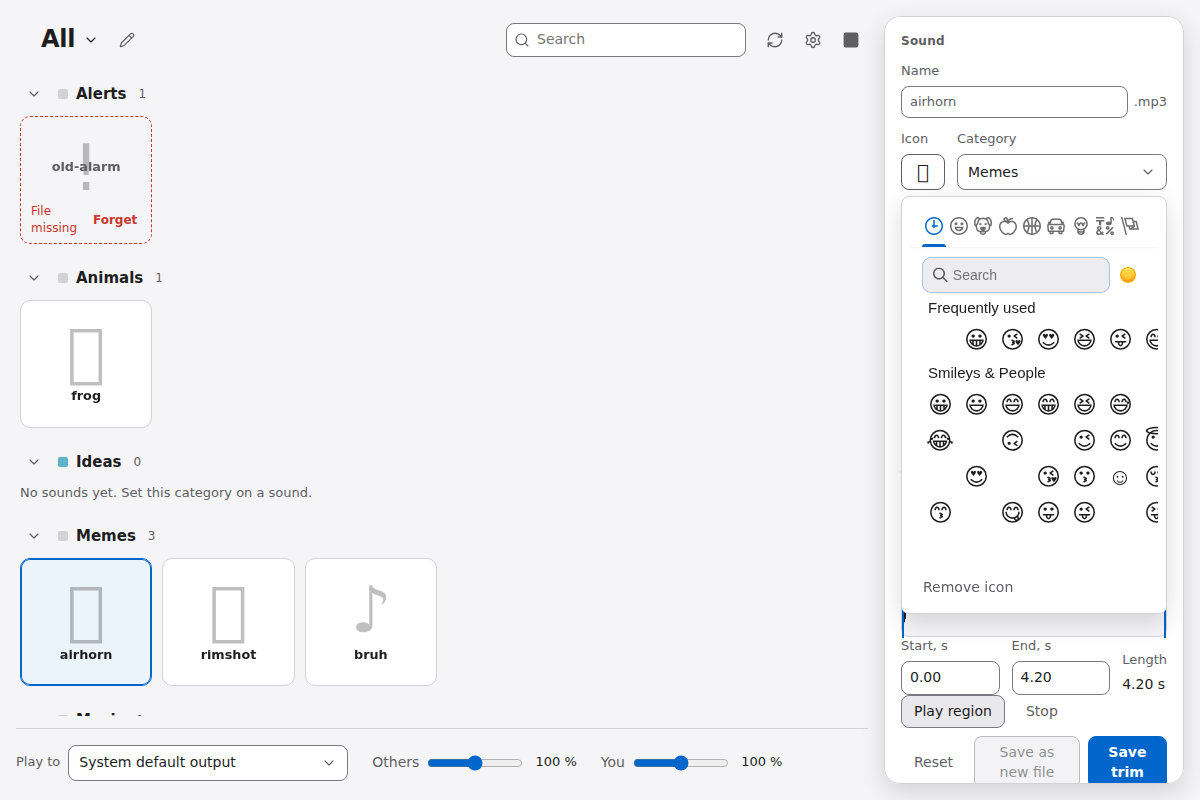
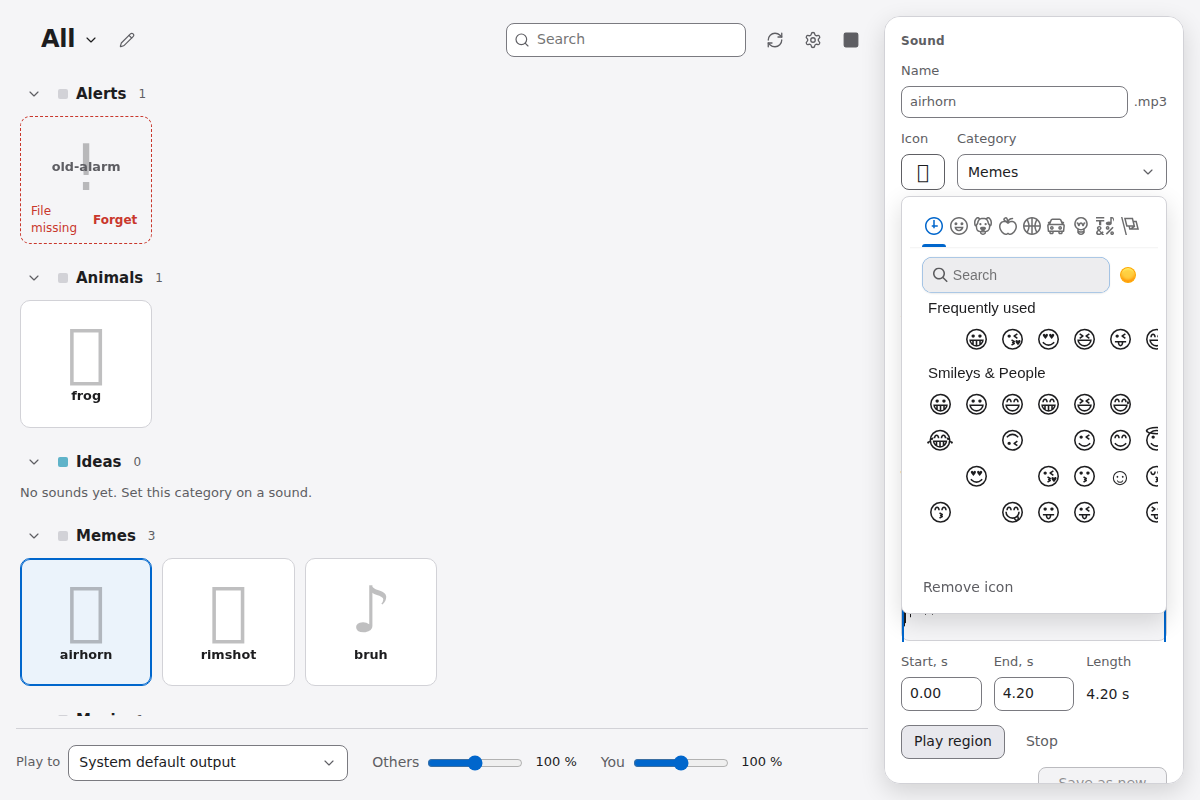
Give the trim editor clear rows
Start, End and Length sit in three equal columns with their labels
aligned. Actions are in three rows: playback, then Reset and Save as
new file, then Save trim across the full width. The old layout crowded
the buttons into one wrapping row.

Changed region(s): [[0.74, 0.7812, 0.9867, 1.0]]

diff --git a/src/components/TrimEditor.tsx b/src/components/TrimEditor.tsx
@@ -115,8 +115,8 @@ export function TrimEditor({ entry, onSaved, onExported }: Props) {
         {status && <p className="hint" role="status">{status}</p>}
         {error && <p className="error" role="alert">{error}</p>}
 
-        <div className="sheet-actions sheet-split">
-          <div className="sheet-actions">
+        <div className="trim-actions">
+          <div className="trim-row">
             <button
               type="button"
               className="btn"
@@ -134,7 +134,8 @@ export function TrimEditor({ entry, onSaved, onExported }: Props) {
               Stop
             </button>
           </div>
-          <div className="sheet-actions">
+
+          <div className="trim-row trim-row-split">
             <button
               type="button"
               className="btn btn-quiet"
@@ -159,24 +160,25 @@ export function TrimEditor({ entry, onSaved, onExported }: Props) {
             >
               Save as new file
             </button>
-            <button
-              type="button"
-              className="btn btn-primary"
-              disabled={busy || !wave}
-              onClick={() =>
-                run("", async () => {
-                  await api.setSoundMeta(entry.fileName, {
-                    ...entry.meta,
-                    trimStart,
-                    trimEnd,
-                  });
-                  onSaved();
-                })
-              }
-            >
-              Save trim
-            </button>
           </div>
+
+          <button
+            type="button"
+            className="btn btn-primary btn-block"
+            disabled={busy || !wave}
+            onClick={() =>
+              run("", async () => {
+                await api.setSoundMeta(entry.fileName, {
+                  ...entry.meta,
+                  trimStart,
+                  trimEnd,
+                });
+                onSaved();
+              })
+            }
+          >
+            Save trim
+          </button>
         </div>
     </section>
   );

diff --git a/src/styles.css b/src/styles.css
@@ -1147,8 +1147,15 @@ button.group-title:hover {
 
 /* ---------- Trim editor (sidebar) ---------- */
 
+/* Trim: waveform, the three times, then the actions in three rows. */
+.trim {
+  display: flex;
+  flex-direction: column;
+  gap: 12px;
+}
+
 .trim h3 {
-  margin: 0 0 8px;
+  margin: 0;
   font-size: 15px;
   font-weight: 650;
 }
@@ -1192,9 +1199,41 @@ button.group-title:hover {
 
 .trim-fields {
   display: grid;
-  grid-template-columns: 1fr 1fr auto;
+  grid-template-columns: repeat(3, minmax(0, 1fr));
   gap: 12px;
-  align-items: end;
+  align-items: start;
+}
+
+.trim-fields .field > span {
+  white-space: nowrap;
+}
+
+/* Length is read-only; it sits at the height of the inputs beside it. */
+.trim-fields output.value {
+  display: flex;
+  align-items: center;
+  height: 36px;
+}
+
+.trim-actions {
+  display: flex;
+  flex-direction: column;
+  gap: 8px;
+}
+
+.trim-row {
+  display: flex;
+  align-items: center;
+  gap: 8px;
+}
+
+.trim-row-split {
+  display: grid;
+  grid-template-columns: 1fr 1fr;
+}
+
+.btn-block {
+  width: 100%;
 }
 
 .trim-fields input[type="number"] {
